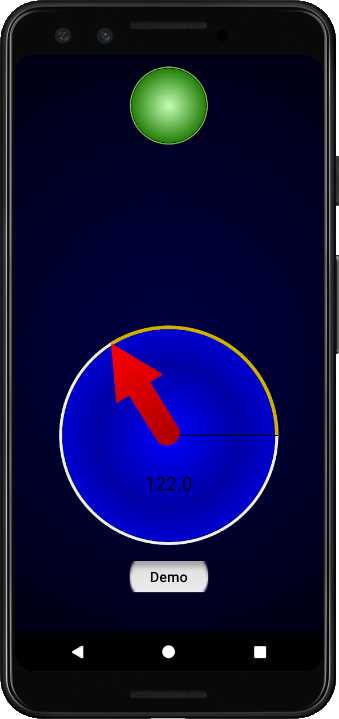
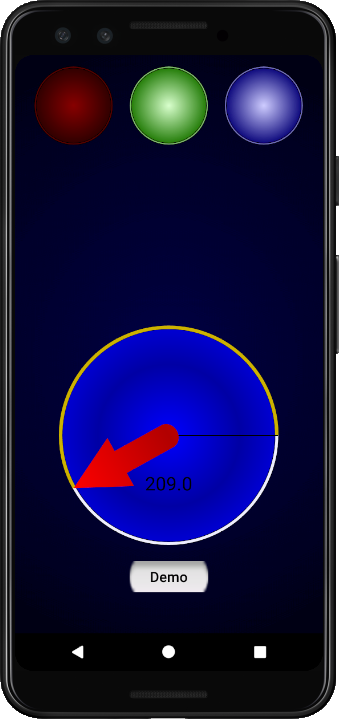
Update LEDLight control, "Demo" activity and screenshots

diff --git a/app/src/main/java/com/e/phonetest/GaugeActivity.java b/app/src/main/java/com/e/phonetest/GaugeActivity.java
@@ -21,7 +21,7 @@ public class GaugeActivity extends AppCompatActivity implements GaugeTaskCallbac
     String txtGauge = "", txtLED = "";
     String[] params = new String[6];
     AngleIndicator ai1;
-    LEDLight led1;
+    LEDLight led1, led2, led3;
 
     boolean switchTimerState;
     int addressesProvided = 2;
@@ -45,6 +45,8 @@ public class GaugeActivity extends AppCompatActivity implements GaugeTaskCallbac
 
         ai1 = findViewById(R.id.angleIndicator1);
         led1 = findViewById(R.id.LEDLight1);
+        led2 = findViewById(R.id.LEDLight2);
+        led3 = findViewById(R.id.LEDLight3);
         btnGaugeDemo = findViewById(R.id.buttonGaugeDemo);
         tvGaugeAddress = findViewById(R.id.tvGaugeAddress);
         tvLEDBlinkAddress = findViewById(R.id.tvLEDBlinkAddress);
@@ -140,10 +142,21 @@ public class GaugeActivity extends AppCompatActivity implements GaugeTaskCallbac
 
             ai1.setCurrentValue(val1);
 
-            if (millisUntilFinished > 36000)
+            if (millisUntilFinished > 36000){
                 val1++;
-            else
+
+                if (!led3.isLED_ON()){
+                    led3.setLED_ON(true);
+                    led2.setLED_ON(false);
+                }
+            } else {
                 val1--;
+
+                if (led3.isLED_ON()){
+                    led3.setLED_ON(false);
+                    led2.setLED_ON(true);
+                }
+            }
         }
 
         @Override
@@ -163,6 +176,12 @@ public class GaugeActivity extends AppCompatActivity implements GaugeTaskCallbac
             mTimer.cancel();
             switchTimerState = false;
             v.setBackground(ContextCompat.getDrawable(this, android.R.drawable.button_onoff_indicator_on));
+
+            if (led2.isLED_ON())
+                led2.setLED_ON(false);
+
+            if (led3.isLED_ON())
+                led3.setLED_ON(false);
         }
     }
 

diff --git a/app/src/main/java/com/e/phonetest/LEDLight.java b/app/src/main/java/com/e/phonetest/LEDLight.java
@@ -17,8 +17,8 @@ import android.graphics.RectF;
 public class LEDLight extends View {
 
     public static final int LED_COLOR = Color.BLUE;
-    public static final float LED_LIGHT_COLOR_RATIO = 0.85f;
-    public static final float LED_DARK_COLOR_RATIO = 0.15f;
+    public static final float LED_LIGHT_COLOR_RATIO = 0.9f;
+    public static final float LED_DARK_COLOR_RATIO = 0.1f;
     public static final boolean LED_ON = false;
     public static final boolean LED_BLINK = false;
     public static final int LED_BLINK_INTERVAL = 500;
